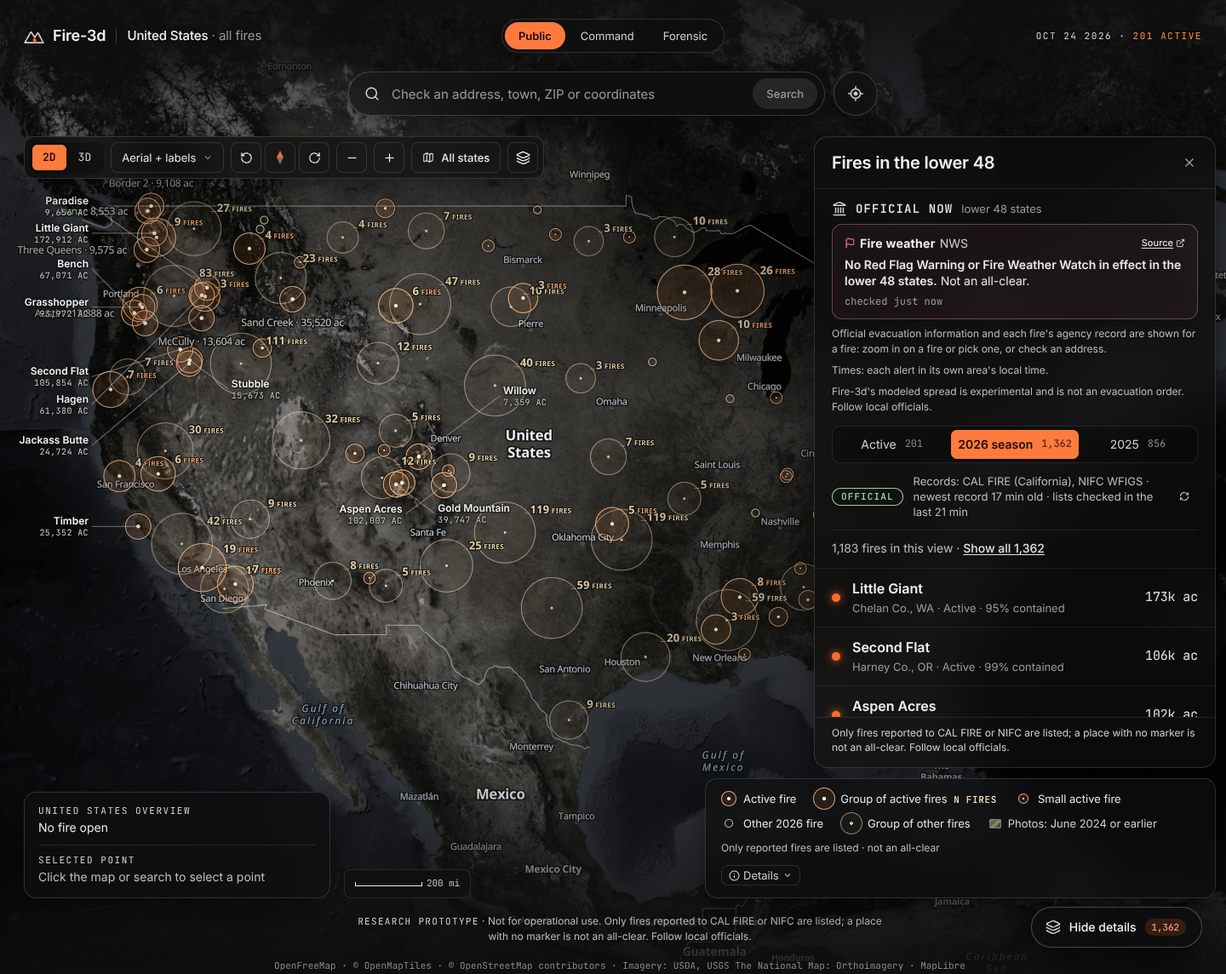
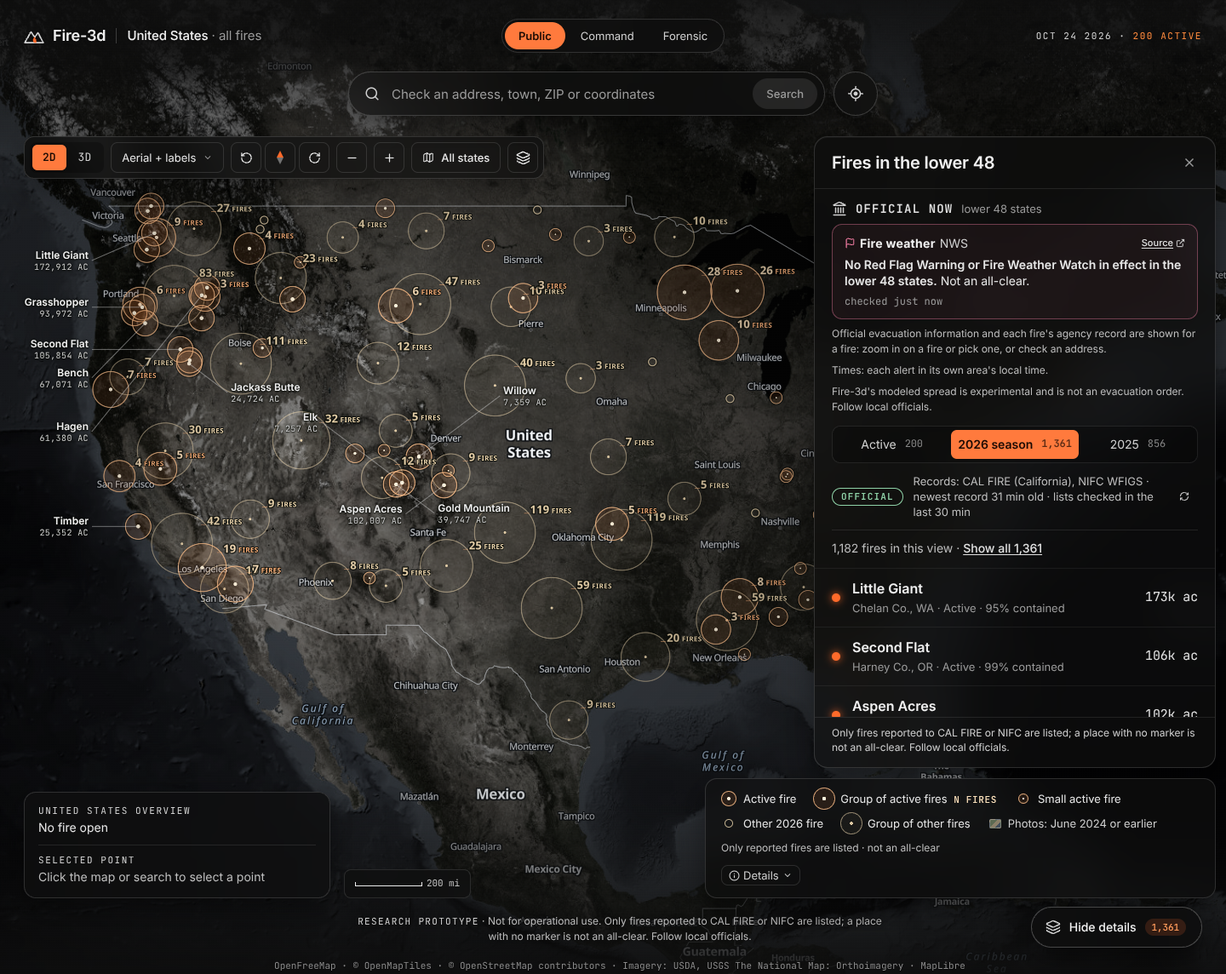
brief 4 H3: finished (leader labels settle, label clearance, screenshots, CONTRACT 15.5, report)
- Leader labels recompute on moveend / resize / chrome / units and once idle after new marker
  data only (no idle feedback with basemap place names); below z5 the MapLibre labels of every
  candidate are hidden (documented deviation from decision e's fallback).
- map/useMapAnchor.ts for H4's circle-to-point leader (no new lint warning).
- Overview names keep clear of their marker when zoomed in and of the card's selection ring
  (feature property lr, labelRadialOffset, CARD_RING_PX; tests).
- Final screenshots (Public minimal / details next to the renders, Command overview, clicks,
  rotate hint, locate-me and denied, phones), unobstructed shares in CONTRACT 15.5 "H3",
  reports/brief4-h3.json, progress notes.

Gates: typecheck ok, lint 55 (all src/scene), tests 1338 passed + 2 skipped, build ok.

Claude-Session: https://claude.ai/code/session_016JQLLLPiy3zrdDeXcY1uZS

diff --git a/web/src/map/overviewLayers.ts b/web/src/map/overviewLayers.ts
@@ -259,8 +259,19 @@ export const LABEL_ANCHORS: Readonly<Record<LabelSide, readonly Anchor[]>> = {
   e: ['right', 'top', 'bottom'],
   ee: ['right'],
 }
-/** The label's distance from the marker centre (ems) for a marker radius `r` (px), as the radial offset gives it. */
+/** The card's selection ring reaches this far past its marker (ring at r + 6, half its 2.5 px stroke; rounded up): the
+ *  card fire's label stands clear of it (feature property `lr`, the radius its label keeps away from). */
+export const CARD_RING_PX = 8
+/** The largest `lr`: a large fire whose card is open. */
+export const LABEL_R_MAX_PX = MARKER_MAX_PX + CARD_RING_PX
+/** The label's distance from the marker centre (ems) for a label radius `r` (px), as the radial offset gives it. */
 export const labelOffsetEm = (r: number): number => 0.45 + r / 12
+/** `text-radial-offset` of a wide map's labels: labelOffsetEm of the feature's `lr`, growing from z7 to z10 as the
+ *  markers do (zoomed), so a label never touches its marker or the card's ring when zoomed in. */
+export function labelRadialOffset(): unknown {
+  const at = (scale: number) => ['+', 0.45, ['/', ['*', scale, ['get', 'lr']], 12]]
+  return ['interpolate', ['linear'], ['zoom'], 7, at(1), 10, at(ZOOM_GROWTH)]
+}
 /** MapLibre's anchor-offset list ("top", [0, 1.2], …) for some anchors at one marker radius. */
 export function anchorOffsets(anchors: readonly Anchor[], r: number): (Anchor | [number, number])[] {
   const d = Math.round(labelOffsetEm(r) * 1000) / 1000
@@ -268,23 +279,23 @@ export function anchorOffsets(anchors: readonly Anchor[], r: number): (Anchor | 
   return anchors.flatMap((a) => [a, off[a]])
 }
 /** `text-variable-anchor-offset` of a narrow map's labels: below NARROW_LABEL_MAX_ZOOM by the fire's `side`, else the
- *  default anchors; the offset follows the marker radius `r` as `text-radial-offset` does on wide maps. */
+ *  default anchors; the offset follows the label radius `lr` as `text-radial-offset` does on wide maps. */
 export function narrowLabelAnchorOffset(): unknown {
   const forSide = (side: LabelSide) => [
     'interpolate',
     ['linear'],
-    ['get', 'r'],
+    ['get', 'lr'],
     MARKER_MIN_PX,
     ['literal', anchorOffsets(LABEL_ANCHORS[side], MARKER_MIN_PX)],
-    MARKER_MAX_PX,
-    ['literal', anchorOffsets(LABEL_ANCHORS[side], MARKER_MAX_PX)],
+    LABEL_R_MAX_PX,
+    ['literal', anchorOffsets(LABEL_ANCHORS[side], LABEL_R_MAX_PX)],
   ]
   const bySide = ['match', ['get', 'side'], 'ww', forSide('ww'), 'w', forSide('w'), 'e', forSide('e'), 'ee', forSide('ee'), forSide('c')]
   return ['step', ['zoom'], bySide, NARROW_LABEL_MAX_ZOOM, forSide('c')]
 }
 
 /** One point feature per fire (agency coordinates); `pinned` features are labelled at every zoom. */
-export function overviewFeatures(fires: readonly IncidentSummary[], units: Units, o: { pinned?: boolean } = {}): FeatureCollection {
+export function overviewFeatures(fires: readonly IncidentSummary[], units: Units, o: { pinned?: boolean; cardId?: string | null } = {}): FeatureCollection {
   const features: Feature<Geometry>[] = []
   fires.forEach((s, i) => {
     if (!validPoint(s)) return
@@ -304,6 +315,7 @@ export function overviewFeatures(fires: readonly IncidentSummary[], units: Units
         kind,
         acres: acresOf(s),
         r,
+        lr: r + (o.cardId != null && s.id === o.cardId ? CARD_RING_PX : 0),
         dot: DOT_PX[kind],
         hit: Math.max(HIT_MIN_PX, r + 3),
         sort: sortKey(s),
@@ -320,10 +332,10 @@ export function overviewFeatures(fires: readonly IncidentSummary[], units: Units
   return { type: 'FeatureCollection', features }
 }
 
-/** The three sources' data for a split. */
-export function overviewData(split: OverviewSplit, units: Units): Record<OverviewGroup, FeatureCollection> {
+/** The three sources' data for a split (`cardId`: the fire whose card is open, always pinned). */
+export function overviewData(split: OverviewSplit, units: Units, cardId: string | null = null): Record<OverviewGroup, FeatureCollection> {
   return {
-    pinned: overviewFeatures(split.pinned, units, { pinned: true }),
+    pinned: overviewFeatures(split.pinned, units, { pinned: true, cardId }),
     active: overviewFeatures(split.active, units),
     other: overviewFeatures(split.other, units),
   }
@@ -681,7 +693,7 @@ export function overviewLayers(theme: MapTheme, o: { narrow?: boolean } = {}): L
         'text-font': FONT,
         'text-size': 12,
         'text-variable-anchor': [...LABEL_ANCHORS.c],
-        'text-radial-offset': ['+', 0.45, ['/', ['get', 'r'], 12]],
+        'text-radial-offset': labelRadialOffset(),
         // a narrow map's national view: labels grow towards the middle of the country (takes over the two above)
         ...(o.narrow ? { 'text-variable-anchor-offset': narrowLabelAnchorOffset() } : {}),
         'text-justify': 'auto',

diff --git a/web/src/map/LeaderLabels.tsx b/web/src/map/LeaderLabels.tsx
@@ -8,10 +8,10 @@
 // other and the selected point's label. Recomputed when the map settles, the window or the chrome changes, or the fire
 // lists change (once the map is idle with them), never on the map's own idle otherwise (that would feed back); during a
 // pan or a turn the labels follow their markers (one projection each per frame); hidden while
-// zooming and from z5, where the map's own labels take over (with no collisions to manage). The map leaves out its
-// own labels of the fires named here, and of the smaller ones past the 12th (they would run across the leaders); a fire
-// among the 12 largest that found no free spot keeps its own label (useMapRuntime.leaderIds → overviewLayers
-// .labelFilters).
+// zooming and from z5, where the map's own labels take over (with no collisions to manage). Below z5 the map leaves out
+// its own labels of every candidate (useMapRuntime.leaderIds → overviewLayers.labelFilters): of the ones named here,
+// and of the ones not named (past the 12th, or with no free spot), whose MapLibre labels ran across the leaders and the
+// names (MapLibre cannot keep clear of this overlay); the fire list names them all.
 import type { MapGeoJSONFeature, Map as MapLibreMap } from 'maplibre-gl'
 import { useEffect, useLayoutEffect, useRef, useState } from 'react'
 import { pickFire } from '../state/fireCard'
@@ -70,18 +70,9 @@ function chromeRects(host: DOMRect): Rect[] {
   return out
 }
 
-/** Where MapLibre first puts a fire's own label (overviewLayers LABEL_ANCHORS: under the marker, centred; Noto Sans
- *  12 px "Name · 9,575 ac"), estimated. */
-function mapLabelBox(c: LeaderItem & { name: string; acres: number }, units: 'us' | 'metric'): Rect {
-  const text = `${c.name} · ${Math.round(units === 'metric' ? c.acres * 0.40468564224 : c.acres).toLocaleString('en-US')} ${units === 'metric' ? 'ha' : 'ac'}`
-  const w = textWidth(text, '400 12px "Noto Sans", sans-serif') + 8
-  const top = c.at.y + c.r + 4
-  return { left: c.at.x - w / 2, top, right: c.at.x + w / 2, bottom: top + 18 }
-}
-
 interface Layout {
   spots: Spot[]
-  /** Candidates past the cap (smaller than every named one): their map labels stay hidden too. */
+  /** The other candidates: their map labels stay hidden too below z5. */
   quiet: string[]
 }
 
@@ -148,27 +139,15 @@ function computeSpots(map: MapLibreMap, insets: { top: number; right: number; bo
   const byId = new Map(candidates.map((x) => [x.id, x]))
   // a phone's national view holds the lower 48 in a few hundred pixels: fewer names
   const max = c.clientWidth < NARROW_MAP_PX ? NARROW_LEADER_MAX : LEADER_MAX
-  let placed = layoutLeaders(candidates, { free, obstacles, circles, max })
-  // the fires among the largest that found no spot keep the map's own label ("Name · 9,575 ac", MapLibre's first
-  // place: centred under the marker): a second pass keeps the named ones off those labels
-  const cut = placed.length >= max ? candidates.findIndex((c) => c.id === placed[placed.length - 1].id) : candidates.length
-  const shown = new Set(placed.map((p) => p.id))
-  const unplaced = candidates.slice(0, cut + 1).filter((c) => !shown.has(c.id) && c.at.x >= free.left && c.at.x <= free.right && c.at.y >= free.top && c.at.y <= free.bottom)
-  if (unplaced.length) {
-    const own = unplaced.map((c) => mapLabelBox(c, units))
-    const skip = new Set(unplaced.map((c) => c.id))
-    placed = layoutLeaders(
-      candidates.filter((c) => !skip.has(c.id)),
-      { free, obstacles: [...obstacles, ...own], circles, max },
-    )
-  }
+  const placed = layoutLeaders(candidates, { free, obstacles, circles, max })
   const spots = placed.map((s) => {
     const x = byId.get(s.id)!
     return { ...s, name: x.name, meta: leaderAcres(x.acres, units), lngLat: x.lngLat }
   })
-  // past the cap: every candidate after the last one named (the ones before it that found no spot keep their labels)
-  const last = placed.length >= max ? Math.max(cut, candidates.findIndex((c) => c.id === placed[placed.length - 1].id)) : candidates.length
-  const quiet = candidates.slice(last + 1).map((c) => c.id)
+  // every other candidate keeps quiet at this zoom: the map's own label could not keep clear of the named ones (it
+  // knows nothing of this overlay), and from z5 on the map's labels take over
+  const named = new Set(placed.map((p) => p.id))
+  const quiet = candidates.filter((c) => !named.has(c.id)).map((c) => c.id)
   return { spots, quiet }
 }
 

diff --git a/web/src/map/overviewLayers.test.ts b/web/src/map/overviewLayers.test.ts
@@ -15,6 +15,7 @@ import {
   DIM_OPACITY,
   DOT_PX,
   anchorOffsets,
+  CARD_RING_PX,
   GROUP_TEXT_OFFSET,
   GROUP_TICK_IMAGE,
   GROUP_TICK_OFFSET,
@@ -24,6 +25,9 @@ import {
   isPinned,
   isSmallActive,
   LABEL_ANCHORS,
+  LABEL_R_MAX_PX,
+  labelOffsetEm,
+  labelRadialOffset,
   labelMinZoom,
   labelSide,
   NARROW_LABEL_MAX_ZOOM,
@@ -51,6 +55,7 @@ import {
   selectedFilter,
   sortKey,
   splitOverview,
+  ZOOM_GROWTH,
 } from './overviewLayers'
 
 function fire(over: Partial<IncidentSummary>): IncidentSummary {
@@ -440,16 +445,36 @@ describe('layers', () => {
     const parsed = createPropertyExpression(narrowLabelAnchorOffset() as never, spec)
     expect(parsed.result).toBe('success')
     const expr = parsed.value as unknown as { evaluate: (g: { zoom: number }, f: unknown) => { values: unknown[] } }
-    const at = (zoom: number, side: string, r: number) => expr.evaluate({ zoom }, { type: 'Point', properties: { side, r }, geometry: { type: 'Point', coordinates: [0, 0] } }).values
-    // (at the radius stops: the offsets in between are interpolated, as MapLibre does)
-    expect(at(2.1, 'ww', MARKER_MAX_PX)).toEqual(anchorOffsets(['left'], MARKER_MAX_PX))
+    const at = (zoom: number, side: string, lr: number) => expr.evaluate({ zoom }, { type: 'Point', properties: { side, lr }, geometry: { type: 'Point', coordinates: [0, 0] } }).values
+    // (at the label-radius stops: the offsets in between are interpolated, as MapLibre does)
+    expect(at(2.1, 'ww', LABEL_R_MAX_PX)).toEqual(anchorOffsets(['left'], LABEL_R_MAX_PX))
     expect(at(2.1, 'ee', MARKER_MIN_PX)).toEqual(anchorOffsets(['right'], MARKER_MIN_PX))
-    expect(at(2.1, 'w', MARKER_MAX_PX)).toEqual(anchorOffsets(LABEL_ANCHORS.w, MARKER_MAX_PX))
-    expect(at(2.1, 'c', MARKER_MAX_PX)).toEqual(anchorOffsets(LABEL_ANCHORS.c, MARKER_MAX_PX))
-    expect(at(NARROW_LABEL_MAX_ZOOM, 'ww', MARKER_MAX_PX)).toEqual(anchorOffsets(LABEL_ANCHORS.c, MARKER_MAX_PX))
+    expect(at(2.1, 'w', LABEL_R_MAX_PX)).toEqual(anchorOffsets(LABEL_ANCHORS.w, LABEL_R_MAX_PX))
+    expect(at(2.1, 'c', LABEL_R_MAX_PX)).toEqual(anchorOffsets(LABEL_ANCHORS.c, LABEL_R_MAX_PX))
+    expect(at(NARROW_LABEL_MAX_ZOOM, 'ww', LABEL_R_MAX_PX)).toEqual(anchorOffsets(LABEL_ANCHORS.c, LABEL_R_MAX_PX))
     // features carry their side
     const fc = overviewFeatures([fire({ id: 'a', lon: -121.5, lat: 40 })], 'us')
     expect(fc.features[0].properties?.side).toBe('ww')
+  })
+
+  it('labels keep clear of their marker when zoomed in, and of the card\'s selection ring', () => {
+    const spec = (latest as unknown as { layout_symbol: Record<string, never> }).layout_symbol['text-radial-offset']
+    const parsed = createPropertyExpression(labelRadialOffset() as never, spec)
+    expect(parsed.result).toBe('success')
+    const expr = parsed.value as unknown as { evaluate: (g: { zoom: number }, f: unknown) => number }
+    const at = (zoom: number, lr: number) => expr.evaluate({ zoom }, { type: 'Point', properties: { lr }, geometry: { type: 'Point', coordinates: [0, 0] } })
+    // 12 px text: the label starts this many px from the marker centre
+    const px = (em: number) => em * 12
+    expect(px(at(5, MARKER_PX.large))).toBeCloseTo(px(labelOffsetEm(MARKER_PX.large)))
+    expect(px(at(10, MARKER_PX.large))).toBeGreaterThan(MARKER_PX.large * ZOOM_GROWTH + 4)
+    // the card fire: its label radius covers the ring (r + 6, stroke 2.5) at every zoom
+    const pinned = overviewFeatures([active('l', 172_912), active('s', 2)], 'us', { pinned: true, cardId: 's' }).features
+    const lr = (id: string) => pinned.find((f) => f.properties?.id === id)?.properties?.lr as number
+    expect(lr('l')).toBe(MARKER_PX.large)
+    expect(lr('s')).toBe(MARKER_PX.small + CARD_RING_PX)
+    expect(CARD_RING_PX).toBeGreaterThanOrEqual(6 + 2.5 / 2)
+    for (const z of [5, 7, 8.5, 10]) expect(px(at(z, lr('s')))).toBeGreaterThan((MARKER_PX.small + 6) * (z >= 10 ? ZOOM_GROWTH : 1) + 1.25)
+    expect(overviewData(splitOverview([active('s', 2)], { cardId: 's' }), 'us', 's').pinned.features[0].properties?.lr).toBe(MARKER_PX.small + CARD_RING_PX)
   })
 
   it('draw order: active marks above other fires, pinned above both; labels above markers, pinned labels placed first', () => {

diff --git a/web/src/map/useMapAnchor.ts b/web/src/map/useMapAnchor.ts
@@ -17,24 +17,26 @@ export function useMapAnchor(lngLat: readonly [number, number] | null): MapAncho
   const map = useMapRuntime((s) => s.map)
   const lon = lngLat?.[0]
   const lat = lngLat?.[1]
-  const [anchor, setAnchor] = useState<MapAnchor | null>(null)
+  const valid = map != null && lon != null && lat != null && Number.isFinite(lon) && Number.isFinite(lat)
+  const key = valid ? `${lon},${lat}` : ''
+  // the projection of the point named by `key` (a point that changed is not shown until projected)
+  const [state, setState] = useState<{ key: string; anchor: MapAnchor } | null>(null)
   useEffect(() => {
-    if (!map || lon == null || lat == null || !Number.isFinite(lon) || !Number.isFinite(lat)) {
-      setAnchor(null)
-      return
-    }
+    if (!map || !valid || lon == null || lat == null) return
     let raf = 0
     const update = () => {
       raf = 0
       const p = map.project([lon, lat])
       const c = map.getContainer()
       const inView = p.x >= 0 && p.y >= 0 && p.x <= c.clientWidth && p.y <= c.clientHeight
-      setAnchor((cur) => (cur && Math.abs(cur.x - p.x) < 0.5 && Math.abs(cur.y - p.y) < 0.5 && cur.inView === inView ? cur : { x: p.x, y: p.y, inView }))
+      setState((cur) =>
+        cur && cur.key === key && Math.abs(cur.anchor.x - p.x) < 0.5 && Math.abs(cur.anchor.y - p.y) < 0.5 && cur.anchor.inView === inView ? cur : { key, anchor: { x: p.x, y: p.y, inView } },
+      )
     }
     const schedule = () => {
       if (!raf) raf = requestAnimationFrame(update)
     }
-    update()
+    schedule()
     map.on('move', schedule)
     map.on('resize', schedule)
     return () => {
@@ -42,6 +44,6 @@ export function useMapAnchor(lngLat: readonly [number, number] | null): MapAncho
       map.off('resize', schedule)
       if (raf) cancelAnimationFrame(raf)
     }
-  }, [map, lon, lat])
-  return anchor
+  }, [map, valid, key, lon, lat])
+  return state && state.key === key && valid ? state.anchor : null
 }

diff --git a/web/src/map/mapStore.ts b/web/src/map/mapStore.ts
@@ -111,8 +111,8 @@ export interface MapRuntimeState {
   tint: TintLevel
   /** Brief 4: a chrome's tint request (map/useMapTint.ts), null = the view's default (MapAtmosphere). */
   tintRequest: TintLevel | null
-  /** Brief 4 H3 (decision e): fires whose MapLibre label the leader-line overlay replaces (map/LeaderLabels.tsx: the
-   *  ones it names, and the smaller ones past its 12); the map leaves their own labels out. Sorted; [] = none. */
+  /** Brief 4 H3 (decision e): fires whose MapLibre label the leader-line overlay replaces below z5 (map/LeaderLabels.tsx:
+   *  every candidate, named or not); the map leaves their own labels out. Sorted; [] = none. */
   leaderIds: readonly string[]
 }
 

diff --git a/web/src/map/mapController.ts b/web/src/map/mapController.ts
@@ -634,7 +634,7 @@ export class MapController {
     const dataKey = `${this.overviewVersion}|${ws.units}|${cardId ?? ''}|${hidden.join(',')}`
     if (dataKey !== this.overviewDataKey) {
       this.overviewDataKey = dataKey
-      const data = overviewData(splitOverview(this.overviewSet, { hidden, cardId }), ws.units)
+      const data = overviewData(splitOverview(this.overviewSet, { hidden, cardId }), ws.units, cardId)
       for (const g of OVERVIEW_GROUPS) this.setData(OVERVIEW_SOURCES[g], data[g])
     }
     const chipKey = this.chipIds.join(',')

diff --git a/docs/redesign/CONTRACT.md b/docs/redesign/CONTRACT.md
@@ -3490,7 +3490,100 @@ chrome), Command keys 27/27, hand-off and tint 5/5; reduced motion turns at once
 
 #### H3+H4 (Public overview, Public fire view, Command overview) — as built
 
-_To be filled by H3+H4._
+**H3 (Public overview, Command overview, click to fire view, markers, locate-me, leader labels)**, built 2026-10-24
+(report `reports/brief4-h3.json`, screenshots `docs/screenshots/brief4-h3-*.png`, notes `progress/brief4-h3.md`).
+Where this differs from §15.1-15.4, this paragraph is what the code does.
+- *Overview chrome* (`ui/shell/OverviewChrome.tsx`; layout `styles/view-public.css`, every rule under
+  `.mw[data-view='overview']`): one chrome for both presets. Bar: `TopBarBrand`, "United States · all fires", `ViewPill`;
+  right `ui/public/OverviewStatus.tsx` ("OCT 24 2026 · 203 ACTIVE": the viewer's local date `barDate`, then
+  `activeCountPart`, never "0" when the lists could not be read: "LOADING FIRES", "FIRE LIST UNAVAILABLE", "FIRE LISTS
+  UNAVAILABLE"; tooltip `ACTIVE_COUNT_TIP`, which ends with §14.14 `LIST_ABSENCE`), `ShowPanelsPill`, `CompactMenu`.
+  Search row `.ovw-search#mw-search`, centred at `--m-chrome-top`: `SearchBox({ variant: 'pill' })` (52 px pill; the
+  label "Check an address: street, town, ZIP code or coordinates" for screen readers only; `PILL_PLACEHOLDER` "Check an
+  address, town, ZIP or coordinates", phones `PILL_PLACEHOLDER_SHORT` "Address, town or ZIP"; hints, messages and
+  results under the pill, as wide as it) and `location/LocateButton.tsx`.
+- *Public minimal* (`overviewDetails` false, the default): + `MapControls variant="compact"` (right edge, above the
+  pill), `FixedCopy variant="line"` centred above the credits (phones: `LIST_ABSENCE_SHORT` + "Follow local
+  officials."), the credits centred in mono 10 px, `ui/public/ShowDetailsPill.tsx` (bottom right; count
+  `ui/public/useOverviewCount.ts` = `overviewFires(catalog, filter).length`, a spinner while the lists load; name "Show
+  details: list of N fires"; showing the details also opens `panels.updates`). A selected point's location card (and
+  Command's fire card) is the left column at left 28, top `--ovw-row2` (chrome-top + 76 = 160), under the controls bar
+  when the details show.
+- *Details* (Public after the pill; Command always, without the pill, decision c): `MapControls variant="bar" layers`
+  top left; "Fires in the lower 48" (`OverviewPanel({ closeHidesDetails?, sheetPeek? })`, right 12, top 160, 472 px;
+  in Public its close button is "Hide details"; restyled in `styles/overview.css` under the overview root: mono OFFICIAL
+  NOW, the NWS block in a pink frame, accent tabs, the outlined OFFICIAL source pill, 16 / 13 / mono 15 px rows); the
+  overview readout (`CoordinateStrip` compact, mono .14em eyebrows) with the scale bar beside it; the legend (600 px).
+  Shorter or narrower windows (`ui/public/overviewLayout.ts`): below 1080 px high or 1280 px wide the list runs down to
+  the disclaimer row (`--ovw-low` 88 px) and the legend sits left of it; the scale bar gives way below 1280 px (below
+  1400 px on short windows); below 1200 px the legend is in the Layers panel (`OVERVIEW_LEGEND_IN_PANEL_QUERY`,
+  `LayersPanel`), as on phones. The menu's "Fires (lower 48)" (< 1024 px) also shows the details in Public.
+- *The overview map stays put* when its panels come and go (`mapController.applySafeInsets`: with no fire open and no
+  framing settling, the point at the middle of the new free area keeps its pixel; the new padding applies to the next
+  framing, e.g. "All states" or a search). No more shifted, cut-off lower 48 after "Show details".
+- *Phones* (decision h): bar (logo, title, menu), full-width search pill + 44 px locate, the compact cluster bottom
+  right, the pill opens the fire list sheet (`panels.updates`), the disclaimer and "© Credits" at the bottom; pill and
+  cluster give way to an open card or sheet. Command keeps the default controls row, the peek bar and the coordinate
+  line. The skip link "Skip to the fire list" lands on the pill while no list is shown (`#mw-updates`).
+- *Locate-me* (`location/locate.ts`, pure, tested; `LocateButton.tsx`): only a click asks the browser
+  (`getCurrentPosition({ enableHighAccuracy: false, timeout: 15 s, maximumAge: 60 s })`, no outside location service) →
+  `setDevice(deviceFromPosition(pos))` + `selectLocation(deviceSelection(d), { fly: true, zoom: deviceZoom(accuracy) })`
+  (`source 'device'`, label "Your location", approximate when coarser than 100 m or unknown). Denied / unavailable /
+  timeout / unsupported / insecure: `LOCATE_MESSAGES` under the button (dismissable; never a default place). Memory only:
+  not in the URL, not in browser storage. The point is checked like a map click (Fire-3d's own `/api/geo/lookup`,
+  `/api/extras/evacuations`, `/api/official/local-alerts`), so the card's line is now "Your location from your browser
+  (not saved or added to the link)" (`location/locationCheck.ts`; H2's "it stays in your browser" was not exact).
+- *Click → fire view* (decision b): `state/fireCard.ts openFireView(id)` = `setFireCard(null)` + `selectIncident(id,
+  { source: 'card' })` (the fire already open is only framed again), `opensFireView()` (map workspace and Public),
+  `pickFire(id, row?)` = the fire view in Public, `showFireCard` in Command and Forensic; `fireActions.ts` re-exports
+  them. Callers: the list row, the marker and its label (`mapController.openFireFromOverview`), the leader labels, the
+  search box's fire result (`pickFireCard`), the location card's nearest-fire rows (`OverviewCard.openOrShow`; prepared
+  fires still open through `openFromSearch`). On the map, a chip or another fire's outline opens that fire's view in
+  Public (`openFireView`) and its card in Command; the open fire's own marker opens its card in Command only. Zoom focus
+  and the "Spread not prepared yet" chips are off in Public (`evaluateFocus`: no chips, `keepShownFocus()`; a preset
+  switch re-evaluates); the overview view kept for Back may be any zoom in Public. History rules are unchanged: one push
+  from the overview (`fromOverview`), Back / X = `goToOverview()` (history.back). Browser checks 9/9 (list row, marker,
+  leader label → fire view; Back and browser Back; zooming out keeps the fire view; details kept; Command → fire card).
+- *Markers* (`map/overviewLayers.ts`, decision e): `markerKind(s)` small / active / large / other and `markerRadius(s)`
+  (`MARKER_PX` 7 / 11 / 15 / 4.5; `DOT_PX` 1.4 / 2.2 / 2.8 / 0); `PALETTE` (exported; dark and aerial: fill
+  rgba(255,138,60,.10), ring rgba(255,192,138,.8), dot #fff3dc, other rings rgba(240,217,176,.8), groups of other fires
+  .5; light: darker equivalents) with a faint dark casing; groups `groupRadius(n)` = min(36, 10 + 4.2·√n)
+  (`CLUSTER_RADIUS_EXPR` by `point_count`), a centre dot each, "28 FIRES" (`groupLabelText`, Noto Sans Bold 13 with the
+  unit at .62, `GROUP_TICK_IMAGE` tick, data-driven `GROUP_TICK_OFFSET` / `GROUP_TEXT_OFFSET` on the upper-right edge),
+  the count layers placed above the names (names keep clear of them); full size at a desktop's national zoom, 1.2x by
+  z10, 0.65x at a phone's national view (z2, full at z3.5). New layers `OVR.activeDot`, `pinnedDot`, `activeClusterDot`,
+  `otherClusterDot`; `labelFilters(leaderIds)`. Names keep clear of their marker: feature property `lr` (the radius a
+  label keeps away from: `r`, plus `CARD_RING_PX` 8 for the fire whose card is open, so its name clears the selection
+  ring), `labelRadialOffset()` growing with the markers from z7 to z10. The legend (`MapLegend`) follows: new swatches (`.fxm-sw-fire-active /
+  -large / -past / -group-* / -small-active / -nws`), "Fire weather alert (NWS)" while alerts are in effect on the
+  overview, details copy for sizes by type and the preset's click.
+- *Leader-line labels* (decision e; `map/leaderLayout.ts`, pure, tested: `layoutLeaders(items, { free, obstacles,
+  circles, max })`, `leaderCandidates`, `gutterEdge`, `labelBox`, `segmentHitsRect`, `circleHitsRect`, `rectsOverlap`,
+  `leaderAcres`, `LEADER_MAX` 12; `map/LeaderLabels.tsx`, mounted by the overview chrome): at most 12 (5 on maps under
+  500 px) of the large active fires and fires of 20,000 ac or more that MapLibre draws as single markers, largest first,
+  below z5; a gutter column at the free map's left edge for the westernmost, else diagonals; off the chrome, the markers,
+  group centres and counts and the basemap's place names; recomputed on moveend, resize, chrome or unit change and once
+  the map is idle after new marker data (never on every idle: that fed back); during pans and turns they follow their
+  markers per frame, hidden while zooming; a click = `pickFire`. **Differs from decision e's fallback:** below z5
+  `useMapRuntime.leaderIds` hides the MapLibre labels of every candidate, named or not (past the 12th, or with no free
+  spot): MapLibre cannot keep its labels clear of this DOM overlay, and those labels ran across the leaders and names;
+  from z5 the map's own labels show as before and the fire list names every fire.
+  For H4: `map/useMapAnchor.ts useMapAnchor([lon, lat]) → { x, y, inView } | null` (follows the map per frame) and the
+  geometry helpers above draw the fire view's circle-to-point leader.
+- *Rotate hint* (H2 known issue): `RotateHint` floats in the page (portal, `position: fixed`, `.fxm-orbit-hint
+  .is-floating`) at `map/hintPlacement.ts placeHint(ctl, size, view, obstacles, prefer)` (tested): beside the controls
+  (above / below sliding sideways, or to a side), inside the window, over no `[data-chrome]` region or banner; seen
+  after 2.5 s on screen, so a chrome that swaps at load (a linked fire opening over the overview) no longer uses it up.
+- *Atmosphere and tint*: soft plates behind the bar's logo and title and behind its status (`atmosphere.css`, overview,
+  phones too); edges "overview" and tint "overview" as H2 set them.
+- *Public fire view*: only `MapControls variant="compact"` here (H4 places it and builds the view).
+- *Measured* (decision l): every overview text run, text made transparent with halos kept, 90th-percentile background
+  per line box: min 4.94:1 (Public minimal and details at the national zoom over aerial with the overview tint, the
+  Bonneville salt flats at z10 and White Sands at z11, the Command overview on the dark basemap); no panel alpha or
+  gradient had to change. `__mapChrome().unobstructed` at 1440×1000 (decision m: recorded, no target): Public minimal
+  0.90, Public details 0.55, Command overview 0.56. Locate-me checks 7/7.
+
+_H4: to be filled._
 
 #### H5 (Forensic) — as built
 

diff --git a/docs/redesign/progress/brief4-h3.md b/docs/redesign/progress/brief4-h3.md
@@ -24,3 +24,12 @@ Ports: API 8733, Vite 5193. Builder started 2026-10-24.
   map area (map/hintPlacement.ts + tests; marked seen after 2.5 s on screen), group counts above the names, medium /
   short screens (legend left of the list below 1080 px high, in the Layers panel below 1200 px), device wording fixed
   ("not saved or added to the link"), browser checks: clicks 9/9, locate-me 7/7, contrast >= 4.94:1.
+- Final: leader labels recompute only on moveend / resize / chrome / units and once idle after new marker data (the
+  idle feedback with basemap place names made them flicker); below z5 the MapLibre labels of every candidate are hidden
+  (named or not), documented as a deviation from decision e's fallback. map/useMapAnchor.ts for H4 (lint clean).
+  Labels keep clear of their marker when zoomed in and of the card's selection ring (feature property `lr`,
+  `labelRadialOffset()`, CARD_RING_PX 8; tests). Screenshots retaken and viewed (Public minimal / details 1440x1144
+  with the renders side by side, 1440x1000, 1024, Command overview, clicks, rotate hint, locate-me and denied, phones).
+  Unobstructed at 1440x1000: Public minimal 0.90, details 0.55, Command overview 0.56. Gates: typecheck ok, lint 55
+  (all src/scene), tests 96 files 1338 passed + 2 skipped, build ok. FIRMS key count-only scan 0. CONTRACT 15.5 "H3"
+  paragraph and reports/brief4-h3.json written.
